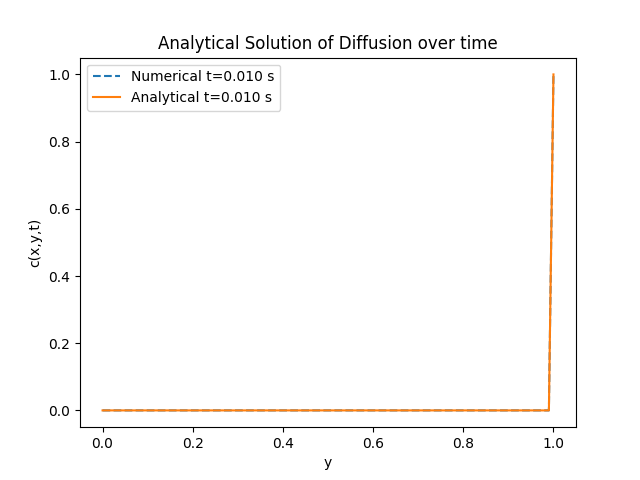
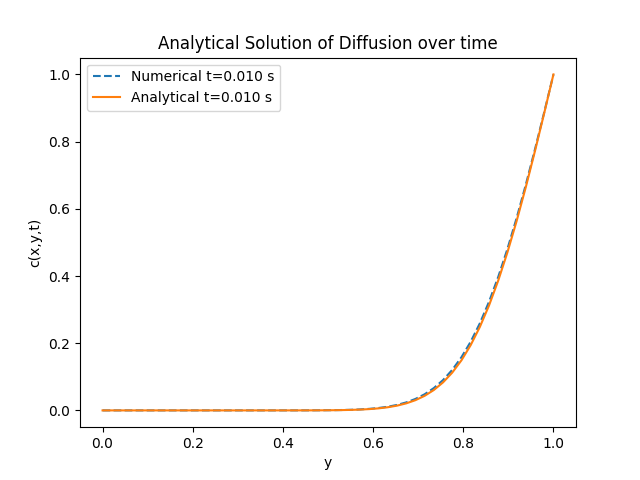
plots updated, normalized axes and found stable parameters

diff --git a/assignment_1_2_copy.py b/assignment_1_2_copy.py
@@ -9,15 +9,17 @@ import matplotlib.animation as animation
 
 x_max = 1 # max x
 y_max = 1 # max y
-N = 100 # number of x and y steps
+N = 50 # number of x and y steps 
 
-dx = x_max / N # x-step of simulation
+dx = x_max / N # x-step of simulation 1/50 -> 0.02
 dy = dx # y-step of simulation
-t_max = 100 # max time of simulation
-D = 0.0001 # diffusion coeff.
+t_max = 1 # max time of simulation
+D = 1 # diffusion coeff.
 
-N_t = 1000 # number of time steps
-dt = t_max / N_t # time step of simulation
+
+#dt = t_max / N_t # time step of simulation
+dt = 0.25 * dx**2 / D # time step of simulation, set to be stable (D*dt/dx^2 <= 0.25)
+N_t = int(t_max/dt) # number of time steps 1 / (0.25 * 0.004 /1) = 1000 time steps
 
 
 # two dimensional
@@ -118,7 +120,7 @@ def animate_diffusion(matrix_simulation, filename = "diffusion.mp4", fps=20):
 
     selected = [0, 10, 50, 200, 500, len(matrix_simulation) - 1]
     for n in selected:
-        ax.plot(y, matrix_simulation[n], label=f"t = {n*dt:.1f}", linewidth=1)
+        ax.plot(y, matrix_simulation[n][:,0], label=f"t = {n*dt:.1f}", linewidth=1)
 
     line, = ax.plot(y, matrix_simulation[0][:,0])
    
@@ -160,15 +162,19 @@ def analytical_solution(y_array, t, D):
     Returns:
     - c: the concentration values at each y for time t
     '''
+    y_array = np.array(y_array)
+
     if t <= 0:
-        return np.zeros_like(y_array)
+        output = np.zeros_like(y_array)
+        output[-1] = 1 # set boundary condition at t=0
+        output[0] = 0 # set boundary condition at t=0
+        return output
     
     denominator = 2 * np.sqrt(D * t)
     profile = np.zeros_like(y_array)
 
-    for j in range(len(y_array)):
+    for j, y in enumerate(y_array):
         # compute the series sum for the analytical solution
-        y = float(y_array[j])
         series_sum = 0
     
         for i in range(0, 1000):
@@ -182,7 +188,7 @@ def analytical_solution(y_array, t, D):
         profile[j] = series_sum
     return profile
 
-# Plot Question E
+# Plot Question E -
 
 def plot_analytical_solution(concentration_over_time):
     ''' 
@@ -195,7 +201,7 @@ def plot_analytical_solution(concentration_over_time):
     times = [0, 0.001, 0.01, 0.1, 1.0]
    
     for time in times:
-        frame = int(time/dt)
+        frame = int((round(time/dt)))
 
         if frame >= len(concentration_over_time):
             frame = len(concentration_over_time) - 1
@@ -238,11 +244,12 @@ def diffusion(concentration_over_time):
     y = np.linspace(0, y_max, N)
     fig, axes = plt.subplots(1, len(times), figsize=(15, 3))
     shared_mappable = None
-    idx = 0
-    for ax in axes:
+    
+    for idx, ax in enumerate(axes):
         concentration_fields = concentration_over_time[frame_indices[idx]]
         shared_mappable = ax.imshow(
             concentration_fields,
+            extent=[0, 1, 0, 1], 
             vmin=0,
             vmax=1,
             origin='lower'
@@ -251,9 +258,12 @@ def diffusion(concentration_over_time):
         ax.set_title(f't = {times[idx]:.3f} seconds')
         ax.set_xlabel('x')
         ax.set_ylabel('y')
-        idx += 1
+        ax.set_xlim(0, 1)       
+        ax.set_ylim(0, 1)
 
     fig.colorbar(shared_mappable, ax=axes, label ="concentration c(x,y,t)")
+    
+    
     plt.savefig("diffusion_over_time.png")
     plt.show()
 
@@ -265,7 +275,7 @@ first_matrix[-1, :] = 1
 # run simulation
 diffusion_over_time = run_diffusion(first_matrix, N_t)
 print(' number of time steps: ', len(diffusion_over_time))
-animate_diffusion(diffusion_over_time, filename="diffusion.gif", fps=20)
-create_animation(diffusion_over_time)
+#animate_diffusion(diffusion_over_time, filename="diffusion.gif", fps=20)
+#create_animation(diffusion_over_time)
 diffusion(diffusion_over_time)
 plot_analytical_solution(diffusion_over_time)

diff --git a/assignment_1_2.py b/assignment_1_2.py
@@ -8,16 +8,17 @@ from matplotlib.animation import FuncAnimation
 
 x_max = 1 # max x
 y_max = 1 # max y
-N = 100 # number of x and y steps
+N = 50 # number of x and y steps
 
-dx = x_max / N # x-step of simulation
+dx = x_max / N # x-step of simulation 1/100 -> 0.05
 dy = dx # y-step of simulation
-t_max = 100 # max time of simulation
-D = 0.00005 # diffusion coeff.
+t_max = 1 # max time of simulation
+D = 1 # diffusion coeff.
 
-N_t = 1000 # number of time steps
-dt = t_max / N_t # time step of simulation
 
+#dt = t_max / N_t # time step of simulation
+dt = 0.25 * dx**2 / D # time step of simulation, set to be stable (D*dt/dx^2 <= 0.25)
+N_t = int(t_max/dt) # number of time steps
 
 # two dimensional, but only depends on y because of symmetry
 def one_step_2d(matrix):
@@ -99,7 +100,7 @@ def create_animation(matrices_over_time):
         color_scale.set_array(matrices_over_time[i].ravel())
         return color_scale,
 
-    anim = FuncAnimation(animation, step, frames=len(matrices_over_time), interval=50, blit=True)
+    anim = FuncAnimation(animation, step, frames=len(matrices_over_time), interval=10, blit=True)
     plt.show()
 
 
